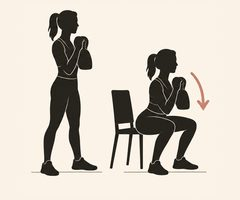
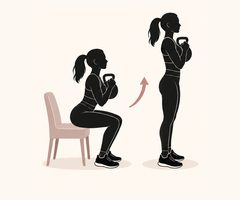
Tydeligere hjemmebilde for knebøy med kettlebell
Hjemmebildet for knebøy på kvinnesidene og i øvelsesbanken byttes til
illustrasjonen der kettlebellen har hvit kant og synes godt.

Claude-Session: https://claude.ai/code/session_01AskgJg6Kkd8mdVzJkkPLJh

Changed region(s): [[0.1167, 0.03, 0.875, 0.9]]

diff --git a/ovelsesbank.html b/ovelsesbank.html
@@ -540,7 +540,7 @@
         <div class="about-body">
           <p class="muscles">Forside lår og sete</p>
           <ul class="exercises">
-          <li><a class="thumb-link v-gym k-kvinne" href="images/ukeplan-kneboy-stor.jpg" aria-label="Se større bilde: Knebøy på treningssenter"><img class="thumb" src="images/ukeplan-kneboy-senter.jpg" width="120" height="100" loading="lazy" alt="Knebøy på treningssenter: illustrasjon med silhuetter."></a><a class="thumb-link v-gym k-mann" href="images/ukeplan-mann-kneboy-stor.jpg" aria-label="Se større bilde: Knebøy på treningssenter"><img class="thumb" src="images/ukeplan-mann-kneboy-senter.jpg" width="120" height="100" loading="lazy" alt="Knebøy på treningssenter: illustrasjon med silhuetter."></a><a class="thumb-link v-home k-kvinne" href="images/ukeplan-kneboy-stor.jpg" aria-label="Se større bilde: Knebøy hjemme"><img class="thumb" src="images/ukeplan-kneboy-hjemme.jpg" width="120" height="100" loading="lazy" alt="Knebøy hjemme: illustrasjon med silhuetter."></a><a class="thumb-link v-home k-mann" href="images/ukeplan-mann-kneboy-stor.jpg" aria-label="Se større bilde: Knebøy hjemme"><img class="thumb" src="images/ukeplan-mann-kneboy-hjemme.jpg" width="120" height="100" loading="lazy" alt="Knebøy hjemme: illustrasjon med silhuetter."></a><span class="v-gym">Knebøy med stang<span class="how">Stanga på øvre del av ryggen. Sett deg ned og litt bakover, knærne følger tærne.</span></span><span class="v-home">Knebøy med manual eller kettlebell<span class="how">Hold vekten foran brystet (goblet-knebøy), gjerne ned mot en stol.</span></span></li>
+          <li><a class="thumb-link v-gym k-kvinne" href="images/ukeplan-kneboy-stor.jpg?v=2" aria-label="Se større bilde: Knebøy på treningssenter"><img class="thumb" src="images/ukeplan-kneboy-senter.jpg" width="120" height="100" loading="lazy" alt="Knebøy på treningssenter: illustrasjon med silhuetter."></a><a class="thumb-link v-gym k-mann" href="images/ukeplan-mann-kneboy-stor.jpg" aria-label="Se større bilde: Knebøy på treningssenter"><img class="thumb" src="images/ukeplan-mann-kneboy-senter.jpg" width="120" height="100" loading="lazy" alt="Knebøy på treningssenter: illustrasjon med silhuetter."></a><a class="thumb-link v-home k-kvinne" href="images/ukeplan-kneboy-stor.jpg?v=2" aria-label="Se større bilde: Knebøy hjemme"><img class="thumb" src="images/ukeplan-kneboy-hjemme.jpg?v=2" width="120" height="100" loading="lazy" alt="Knebøy hjemme: illustrasjon med silhuetter."></a><a class="thumb-link v-home k-mann" href="images/ukeplan-mann-kneboy-stor.jpg" aria-label="Se større bilde: Knebøy hjemme"><img class="thumb" src="images/ukeplan-mann-kneboy-hjemme.jpg" width="120" height="100" loading="lazy" alt="Knebøy hjemme: illustrasjon med silhuetter."></a><span class="v-gym">Knebøy med stang<span class="how">Stanga på øvre del av ryggen. Sett deg ned og litt bakover, knærne følger tærne.</span></span><span class="v-home">Knebøy med manual eller kettlebell<span class="how">Hold vekten foran brystet (goblet-knebøy), gjerne ned mot en stol.</span></span></li>
           <li><a class="thumb-link v-gym k-kvinne" href="images/bank-beinpress-k-stor.jpg" aria-label="Se større bilde: Beinpress på treningssenter"><img class="thumb" src="images/bank-beinpress-k-senter.jpg" width="120" height="100" loading="lazy" alt="Beinpress på treningssenter: illustrasjon med silhuetter."></a><a class="thumb-link v-gym k-mann" href="images/bank-beinpress-stor.jpg" aria-label="Se større bilde: Beinpress på treningssenter"><img class="thumb" src="images/bank-beinpress.jpg" width="120" height="100" loading="lazy" alt="Beinpress på treningssenter: illustrasjon med silhuetter."></a><a class="thumb-link v-home k-kvinne" href="images/bank-beinpress-k-stor.jpg" aria-label="Se større bilde: Beinpress hjemme"><img class="thumb" src="images/bank-beinpress-k-hjemme.jpg" width="120" height="100" loading="lazy" alt="Beinpress hjemme: illustrasjon med silhuetter."></a><a class="thumb-link v-home k-mann" href="images/ukeplan-mann-beinpress-stor.jpg" aria-label="Se større bilde: Beinpress hjemme"><img class="thumb" src="images/ukeplan-mann-beinpress-hjemme.jpg" width="120" height="100" loading="lazy" alt="Beinpress hjemme: illustrasjon med silhuetter."></a><span class="v-gym">Beinpress<span class="how">Senk kontrollert til knærne er rundt 90 grader, og press opp uten å låse knærne.</span></span><span class="v-home">Knebøy til stol på ett bein<span class="how">Sett deg rolig ned på stolen og reis deg på ett bein. Start på to bein med en kettlebell, som på bildet.</span></span></li>
           <li><a class="thumb-link v-gym k-kvinne" href="images/ukeplan-enbens-stor.jpg" aria-label="Se større bilde: Utfall og step-up på treningssenter"><img class="thumb" src="images/ukeplan-enbens-senter.jpg" width="120" height="100" loading="lazy" alt="Utfall og step-up på treningssenter: illustrasjon med silhuetter."></a><a class="thumb-link v-gym k-mann" href="images/ukeplan-mann-enbens-stor.jpg" aria-label="Se større bilde: Utfall og step-up på treningssenter"><img class="thumb" src="images/ukeplan-mann-enbens-senter.jpg" width="120" height="100" loading="lazy" alt="Utfall og step-up på treningssenter: illustrasjon med silhuetter."></a><a class="thumb-link v-home k-kvinne" href="images/ukeplan-enbens-stor.jpg" aria-label="Se større bilde: Utfall og step-up hjemme"><img class="thumb" src="images/ukeplan-enbens-hjemme.jpg" width="120" height="100" loading="lazy" alt="Utfall og step-up hjemme: illustrasjon med silhuetter."></a><a class="thumb-link v-home k-mann" href="images/ukeplan-mann-enbens-stor.jpg" aria-label="Se større bilde: Utfall og step-up hjemme"><img class="thumb" src="images/ukeplan-mann-enbens-hjemme.jpg" width="120" height="100" loading="lazy" alt="Utfall og step-up hjemme: illustrasjon med silhuetter."></a><span class="v-gym">Utfall med manualer<span class="how">Ta et steg fram eller bak, og senk bakre kne rolig mot gulvet.</span></span><span class="v-home">Step-up eller utfall bakover<span class="how">På et trappetrinn eller en stødig stol, gjerne med manualer.</span></span></li>
           <li><a class="thumb-link v-gym k-kvinne" href="images/bank-bulgarsk-k-stor.jpg" aria-label="Se større bilde: Bulgarsk utfall på treningssenter"><img class="thumb" src="images/bank-bulgarsk-k-senter.jpg" width="120" height="100" loading="lazy" alt="Bulgarsk utfall på treningssenter: illustrasjon med silhuetter."></a><a class="thumb-link v-gym k-mann" href="images/bank-bulgarsk-stor.jpg" aria-label="Se større bilde: Bulgarsk utfall på treningssenter"><img class="thumb" src="images/bank-bulgarsk-senter.jpg" width="120" height="100" loading="lazy" alt="Bulgarsk utfall på treningssenter: illustrasjon med silhuetter."></a><a class="thumb-link v-home k-kvinne" href="images/bank-bulgarsk-k-stor.jpg" aria-label="Se større bilde: Bulgarsk utfall hjemme"><img class="thumb" src="images/bank-bulgarsk-k-hjemme.jpg" width="120" height="100" loading="lazy" alt="Bulgarsk utfall hjemme: illustrasjon med silhuetter."></a><a class="thumb-link v-home k-mann" href="images/bank-bulgarsk-stor.jpg" aria-label="Se større bilde: Bulgarsk utfall hjemme"><img class="thumb" src="images/bank-bulgarsk-hjemme.jpg" width="120" height="100" loading="lazy" alt="Bulgarsk utfall hjemme: illustrasjon med silhuetter."></a><span class="v-gym">Bulgarsk utfall<span class="how">Bakre fot på en benk, senk deg rett ned. Krevende, og gir mye effekt med lette vekter.</span></span><span class="v-home">Bulgarsk utfall<span class="how">Bakre fot på en stol eller sofa, senk deg rett ned. Krevende, og gir mye effekt med lette vekter.</span></span></li>

diff --git a/ukeplan-kvinne-40.html b/ukeplan-kvinne-40.html
@@ -476,7 +476,7 @@
 
     <div data-place-panel="gym">
       <ul class="exercises">
-        <li><a class="thumb-link" href="images/ukeplan-kneboy-stor.jpg" aria-label="Se større bilde: Knebøy"><img class="thumb" src="images/ukeplan-kneboy-senter.jpg" width="120" height="100" loading="lazy" alt="Knebøy på treningssenter: illustrasjon med silhuetter."></a><span>Knebøy eller beinpress</span><span class="sets">3 × 6–8</span></li>
+        <li><a class="thumb-link" href="images/ukeplan-kneboy-stor.jpg?v=2" aria-label="Se større bilde: Knebøy"><img class="thumb" src="images/ukeplan-kneboy-senter.jpg" width="120" height="100" loading="lazy" alt="Knebøy på treningssenter: illustrasjon med silhuetter."></a><span>Knebøy eller beinpress</span><span class="sets">3 × 6–8</span></li>
         <li><a class="thumb-link" href="images/ukeplan-markloft-stor.jpg" aria-label="Se større bilde: Rumensk markløft"><img class="thumb" src="images/ukeplan-markloft-senter.jpg" width="120" height="100" loading="lazy" alt="Rumensk markløft på treningssenter: illustrasjon med silhuetter."></a><span>Rumensk markløft eller annen hofteøvelse</span><span class="sets">3 × 6–8</span></li>
         <li><a class="thumb-link" href="images/ukeplan-roing-stor.jpg" aria-label="Se større bilde: Roing"><img class="thumb" src="images/ukeplan-roing-senter.jpg" width="120" height="100" loading="lazy" alt="Roing på treningssenter: illustrasjon med silhuetter."></a><span>Roing eller nedtrekk</span><span class="sets">3 × 6–8</span></li>
         <li><a class="thumb-link" href="images/ukeplan-bryst-stor.jpg" aria-label="Se større bilde: Brystpress og push-ups"><img class="thumb" src="images/ukeplan-bryst-senter.jpg" width="120" height="100" loading="lazy" alt="Brystpress og push-ups på treningssenter: illustrasjon med silhuetter."></a><span>Brystpress eller push-ups</span><span class="sets">3 × 6–8</span></li>
@@ -492,7 +492,7 @@
         <a class="equip-button" href="#utstyrsliste">Se forslag til utstyrsliste</a>
       </div>
       <ul class="exercises">
-        <li><a class="thumb-link" href="images/ukeplan-kneboy-stor.jpg" aria-label="Se større bilde: Knebøy"><img class="thumb" src="images/ukeplan-kneboy-hjemme.jpg" width="120" height="100" loading="lazy" alt="Knebøy hjemme: illustrasjon med silhuetter."></a><span>Knebøy med manual eller kettlebell<span class="how">Hold vekten foran brystet (goblet-knebøy). For mer: bulgarsk utfall med bakre fot på en stol.</span></span><span class="sets">3 × 6–8</span></li>
+        <li><a class="thumb-link" href="images/ukeplan-kneboy-stor.jpg?v=2" aria-label="Se større bilde: Knebøy"><img class="thumb" src="images/ukeplan-kneboy-hjemme.jpg?v=2" width="120" height="100" loading="lazy" alt="Knebøy hjemme: illustrasjon med silhuetter."></a><span>Knebøy med manual eller kettlebell<span class="how">Hold vekten foran brystet (goblet-knebøy). For mer: bulgarsk utfall med bakre fot på en stol.</span></span><span class="sets">3 × 6–8</span></li>
         <li><a class="thumb-link" href="images/ukeplan-markloft-stor.jpg" aria-label="Se større bilde: Rumensk markløft"><img class="thumb" src="images/ukeplan-markloft-hjemme.jpg" width="120" height="100" loading="lazy" alt="Rumensk markløft hjemme: illustrasjon med silhuetter."></a><span>Rumensk markløft med manualer<span class="how">Eller seteløft med skuldrene mot sofaen og vekt på hoftene. For mer: markløft på ett bein.</span></span><span class="sets">3 × 6–8</span></li>
         <li><a class="thumb-link" href="images/ukeplan-roing-stor.jpg" aria-label="Se større bilde: Roing"><img class="thumb" src="images/ukeplan-roing-hjemme.jpg" width="120" height="100" loading="lazy" alt="Roing hjemme: illustrasjon med silhuetter."></a><span>Roing med manual eller strikk<span class="how">Én arm av gangen med støtte på en stol, eller strikk festet i døra.</span></span><span class="sets">3 × 6–8</span></li>
         <li><a class="thumb-link" href="images/ukeplan-bryst-stor.jpg" aria-label="Se større bilde: Brystpress og push-ups"><img class="thumb" src="images/ukeplan-bryst-hjemme.jpg" width="120" height="100" loading="lazy" alt="Brystpress og push-ups hjemme: illustrasjon med silhuetter."></a><span>Push-ups<span class="how">Mot kjøkkenbenken, så på knærne, så på gulvet. Eller brystpress med manualer liggende på gulvet.</span></span><span class="sets">3 × 6–8</span></li>

diff --git a/trening-kvinner-for-40.html b/trening-kvinner-for-40.html
@@ -593,7 +593,7 @@
         </div>
         <h3>Økt A</h3>
         <ul class="exercises">
-          <li><a class="thumb-link" href="images/u40-a1-kneboy.jpg" aria-label="Se større bilde: Knebøy"><img class="thumb" src="images/ukeplan-kneboy-hjemme.jpg" width="120" height="100" loading="lazy" alt="Knebøy hjemme: illustrasjon med silhuetter."></a><span>Knebøy med manual eller kettlebell<span class="how">Hold vekten foran brystet (goblet-knebøy).</span></span><span class="sets">8–12 rep</span></li>
+          <li><a class="thumb-link" href="images/u40-a1-kneboy.jpg" aria-label="Se større bilde: Knebøy"><img class="thumb" src="images/ukeplan-kneboy-hjemme.jpg?v=2" width="120" height="100" loading="lazy" alt="Knebøy hjemme: illustrasjon med silhuetter."></a><span>Knebøy med manual eller kettlebell<span class="how">Hold vekten foran brystet (goblet-knebøy).</span></span><span class="sets">8–12 rep</span></li>
           <li><a class="thumb-link" href="images/u40-a2-hipthrust.jpg" aria-label="Se større bilde: Hip thrust og seteløft"><img class="thumb" src="images/ukeplan-hipthrust-hjemme.jpg" width="120" height="100" loading="lazy" alt="Seteløft hjemme: illustrasjon med silhuetter."></a><span>Hoftehev eller seteløft<span class="how">På gulvet, eller med skuldrene mot sofaen. Legg en manual på hoftene for mer.</span></span><span class="sets">10–15 rep</span></li>
           <li><a class="thumb-link" href="images/u40-a3-bryst.jpg" aria-label="Se større bilde: Brystpress og push-ups"><img class="thumb" src="images/ukeplan-bryst-hjemme.jpg" width="120" height="100" loading="lazy" alt="Brystpress og push-ups hjemme: illustrasjon med silhuetter."></a><span>Push-ups<span class="how">Mot kjøkkenbenken, så på knærne, så på gulvet.</span></span><span class="sets">8–12 rep</span></li>
           <li><a class="thumb-link" href="images/u40-a4-roing.jpg" aria-label="Se større bilde: Roing"><img class="thumb" src="images/ukeplan-roing-hjemme.jpg" width="120" height="100" loading="lazy" alt="Roing hjemme: illustrasjon med silhuetter."></a><span>Roing med manual eller strikk<span class="how">Én arm av gangen med støtte på en stol, eller strikk festet i døra.</span></span><span class="sets">8–12 rep</span></li>
